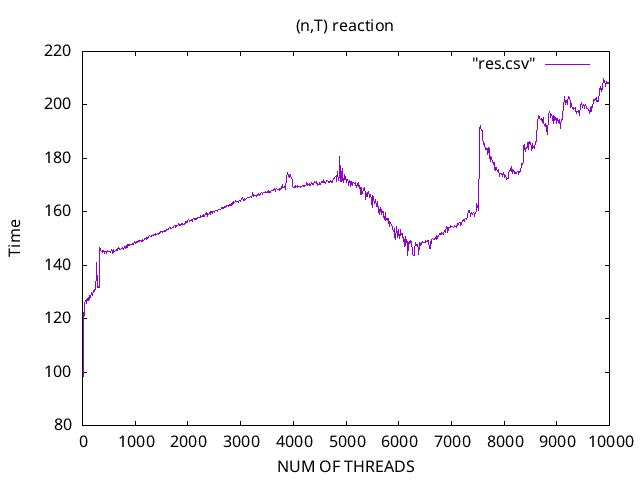
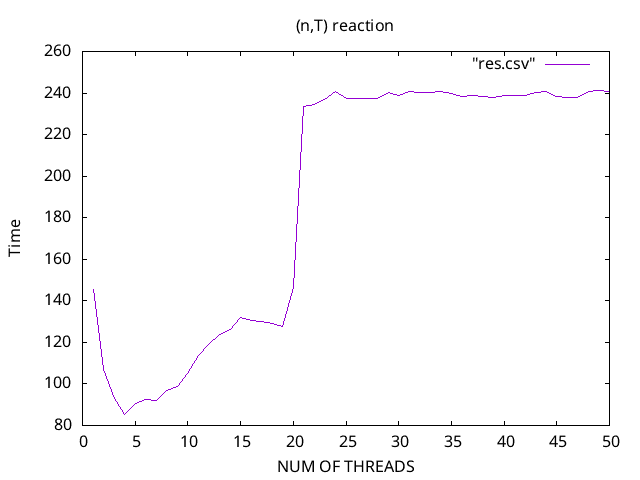
less threads

diff --git a/task_4/int.c b/task_4/int.c
@@ -46,7 +46,7 @@ int main()
     
     FILE* out = fopen("res.csv", "a+");
     perror("opening:");
-    for(NUM_THREADS = 1; NUM_THREADS <= 10000; NUM_THREADS += 10)
+    for(NUM_THREADS = 1; NUM_THREADS <= 50; NUM_THREADS += 1)
     {
         double restime = 0;
         double midres = 0;
